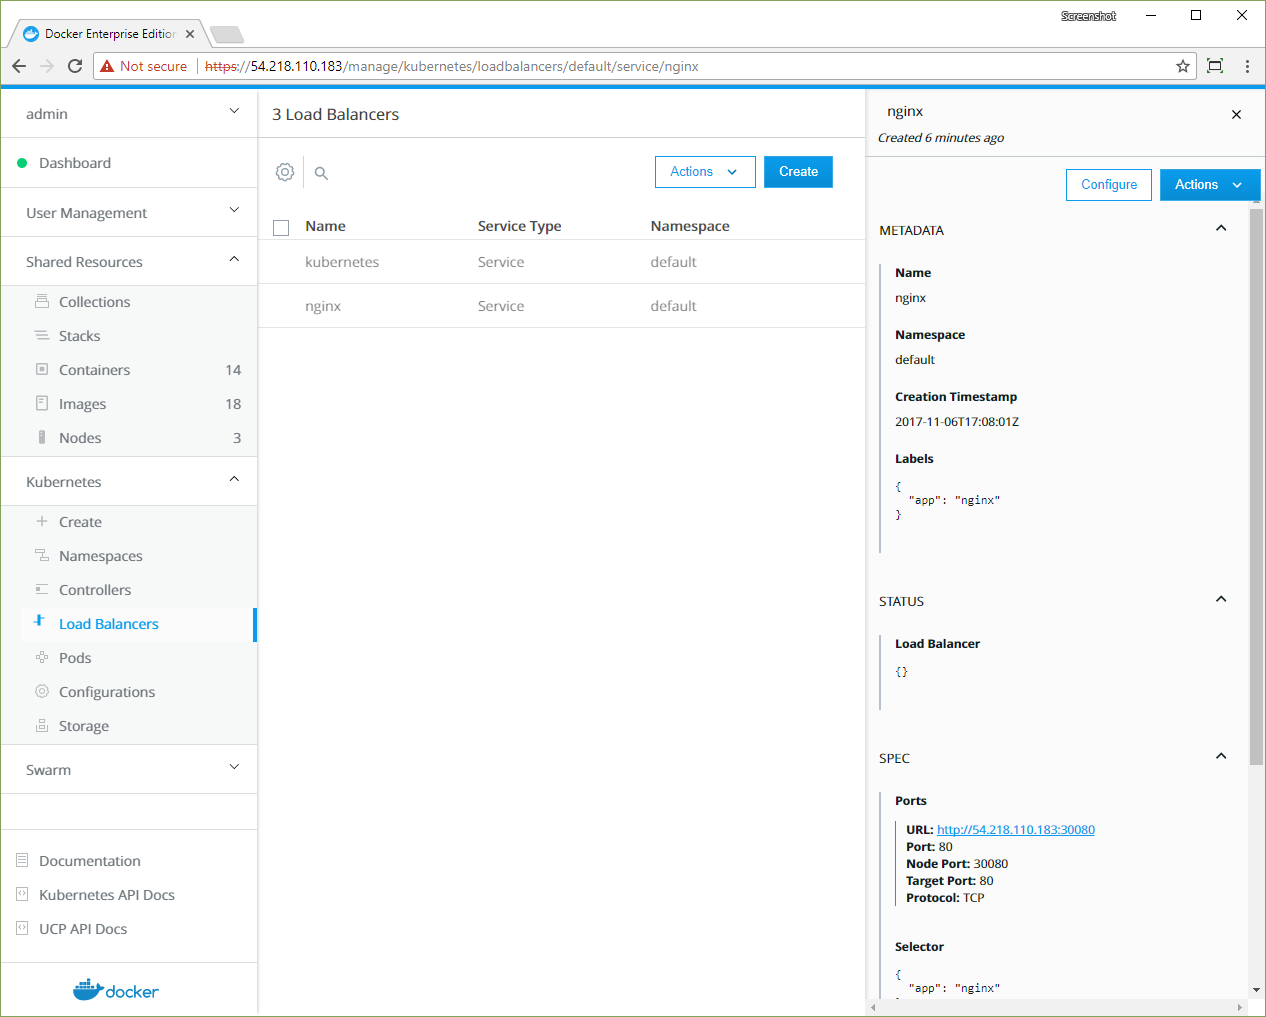
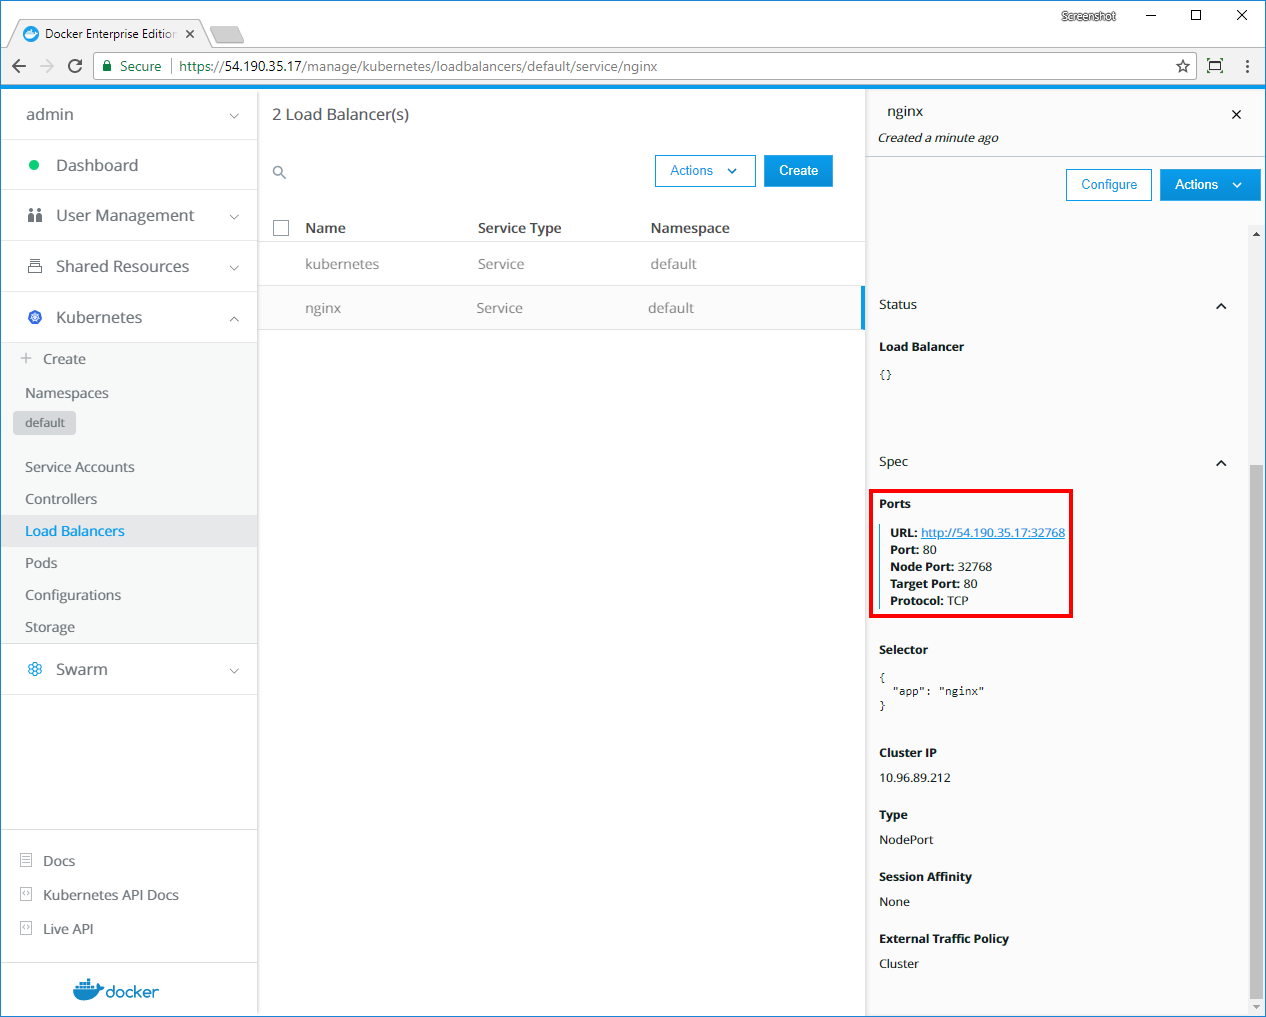
Update Kube workload screenshots

diff --git a/ee/ucp/kubernetes/index.md b/ee/ucp/kubernetes/index.md
@@ -81,13 +81,13 @@ spec:
   type: NodePort
   ports:
     - port: 80
-      nodePort: 30080
+      nodePort: 32768
   selector:
     app: nginx
 ```
 
 The service connects the cluster's internal port 80 to the external port
-30080.
+32768.
 
 1.  Repeat the previous steps and copy-paste the YAML that defines the `nginx`
     service into the **Object YAML** editor on the
@@ -95,9 +95,10 @@ The service connects the cluster's internal port 80 to the external port
     **Load Balancers** page opens.
 2.  Click the **nginx** service, and in the details pane, find the **Ports**
     section.
-3.  Click the link that's labeled **URL** to
 
-![](../images/deploy-kubernetes-workload-3.png){: .with-border}
+    ![](../images/deploy-kubernetes-workload-3.png){: .with-border}
+
+3.  Click the link that's labeled **URL** to view the default NGINX page.
 
 The YAML definition connects the service to the NGINX server by using the
 app label `nginx` and a corresponding label selector.
@@ -134,13 +135,18 @@ spec:
 ...
 ```
 
-1.  In the left pane, click **Controllers** and select the **nginx-deployment**
-    controller.
+1.  In the left pane, click **Controllers** and select **nginx-deployment**.
 2.  In the details pane, click **Configure**, and in the **Edit Deployment**
     page, find the **replicas: 2** entry.
 3.  Change the number of replicas to 4, so the line reads **replicas: 4**.
 4.  Find the **image: nginx:1.7.9** entry and change it to **image: nginx:1.8**.
-5.  Click **Edit** to update the deployment with the new YAML.
+
+    ![](../images/deploy-kubernetes-workload-4.png){: .with-border}
+
+5.  Click **Save** to update the deployment with the new YAML.
+6.  In the left pane, click **Pods** to view the newly created replicas.
+
+    ![](../images/deploy-kubernetes-workload-5.png){: .with-border}
 
 ## Use the CLI to deploy Kubernetes objects
 
@@ -185,7 +191,7 @@ spec:
   type: NodePort
   ports:
     - port: 80
-      nodePort: 30080
+      nodePort: 32768
   selector:
     app: nginx
 ```
